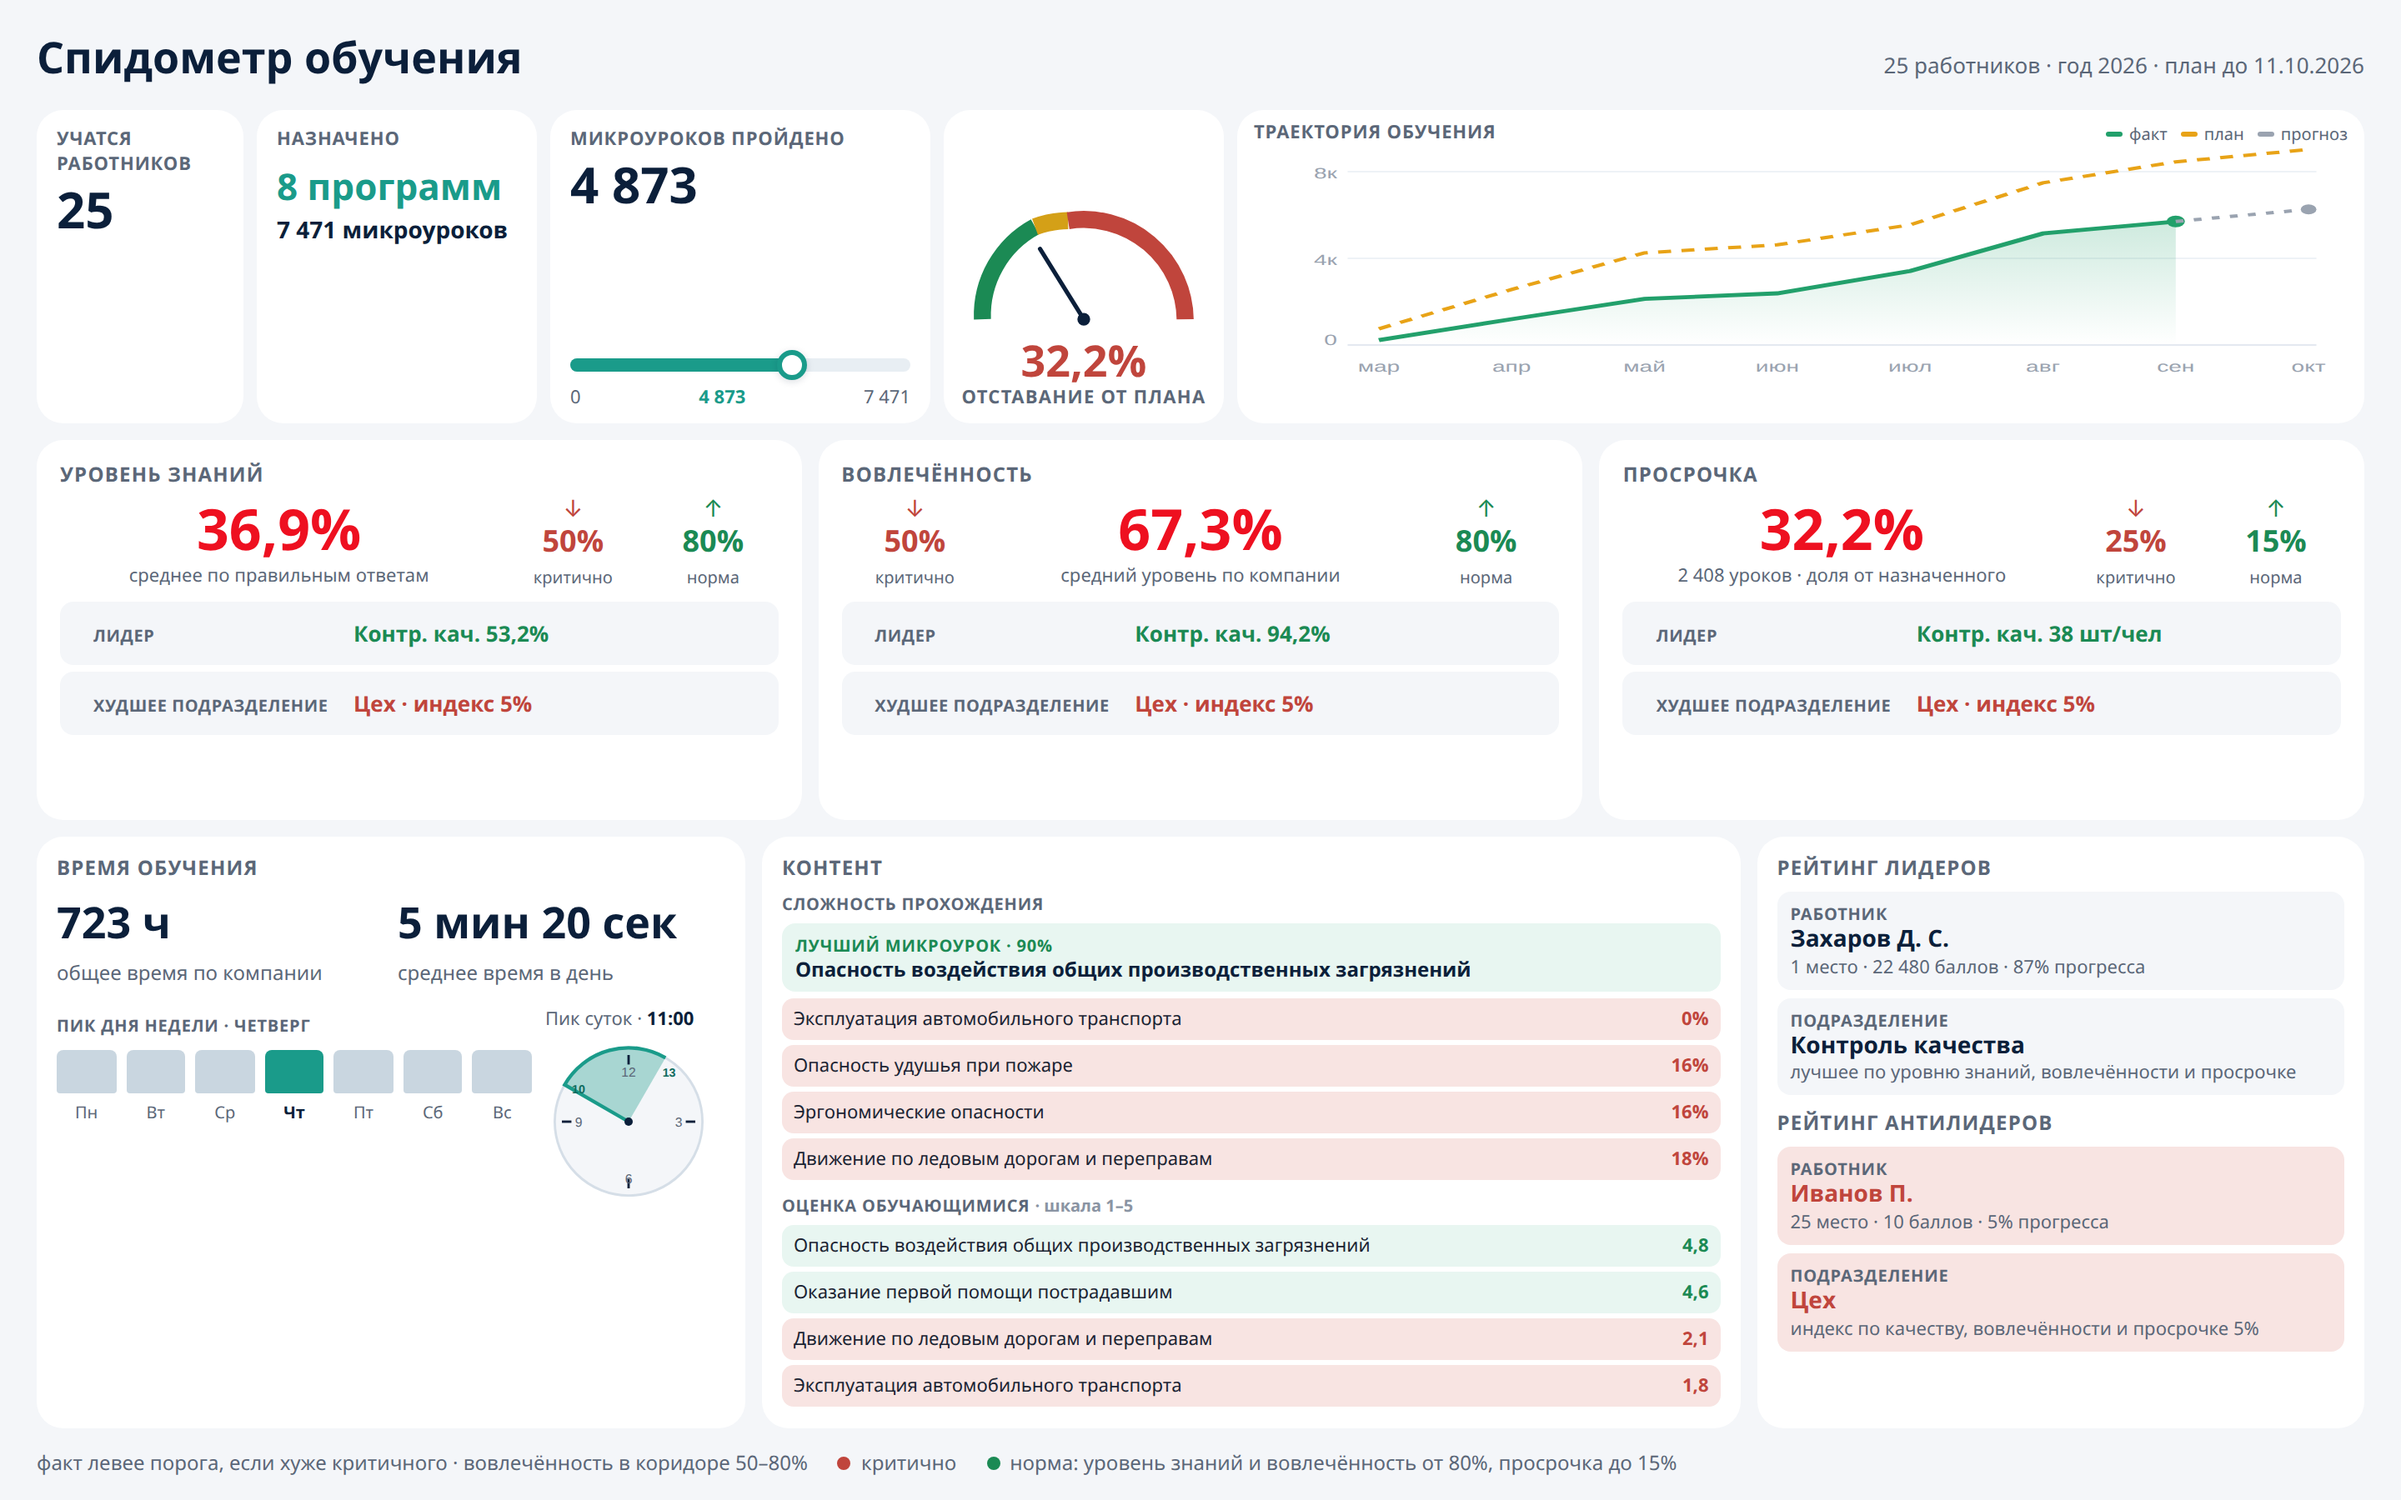
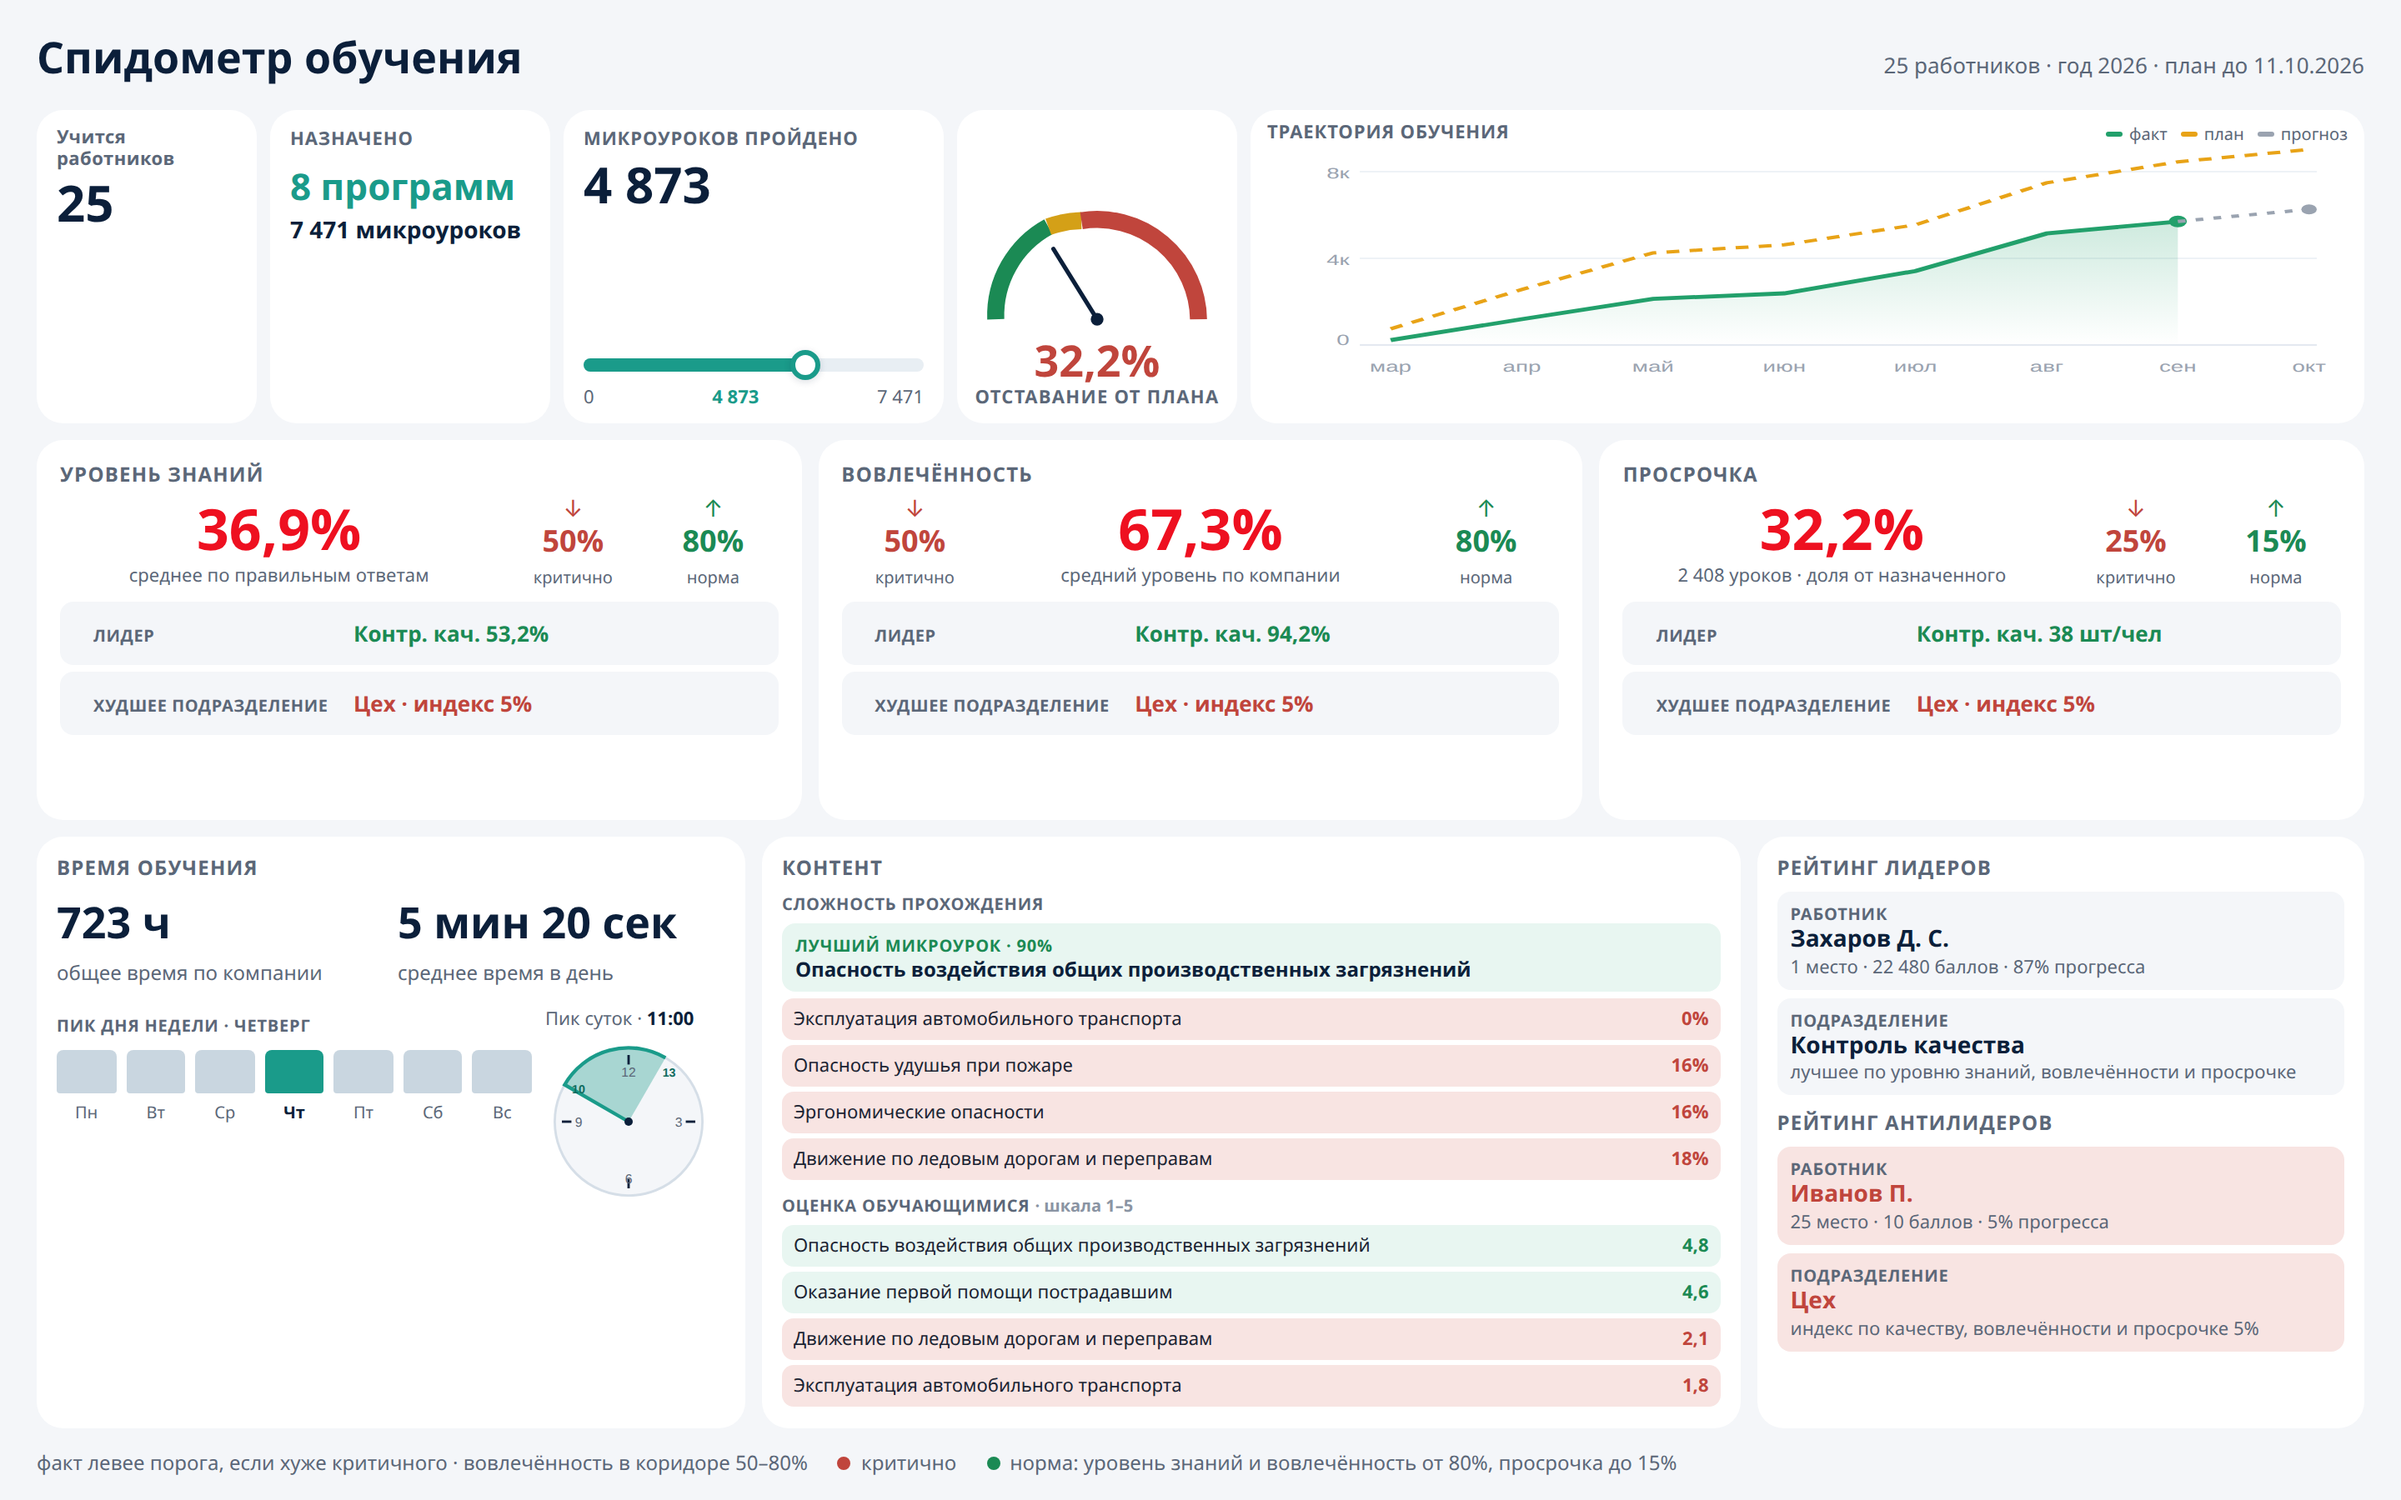
Set the first KPI label to «Учится работников».
The previous uppercase wrap still read like the old people label; the card now shows workers in sentence case.

diff --git a/issledovaniya/vizualy/spidometr-obucheniya.html b/issledovaniya/vizualy/spidometr-obucheniya.html
@@ -40,7 +40,7 @@
     }
     .left-pack {
       display: grid;
-      grid-template-columns: 124px max-content 228px;
+      grid-template-columns: 132px max-content 228px;
       gap: 8px;
       width: max-content;
     }
@@ -55,6 +55,7 @@
     .legs { display: flex; gap: 8px; font-size: 10px; color: var(--muted); }
     .legs i { display: inline-block; width: 10px; height: 3px; border-radius: 2px; margin-right: 4px; vertical-align: middle; }
     .t { font-size: 11px; font-weight: 700; color: var(--muted); letter-spacing: .04em; text-transform: uppercase; }
+    .workers-lab { text-transform: none; letter-spacing: .02em; line-height: 1.2; }
     .n { font-size: 38px; font-weight: 700; color: var(--navy); line-height: 1.05; margin-top: 10px; }
     .s { font-size: 12px; color: var(--muted); margin-top: 4px; }
     .gauge-card { display: flex; flex-direction: column; align-items: center; justify-content: flex-end; padding: 2px 6px 8px; }
@@ -146,7 +147,7 @@
     <div class="hero">
       <div class="left-pack">
         <div class="card kpi tight">
-          <div class="t">Учатся работников</div>
+          <div class="t workers-lab">Учится работников</div>
           <div class="n">25</div>
         </div>
         <div class="card kpi tight assign">
